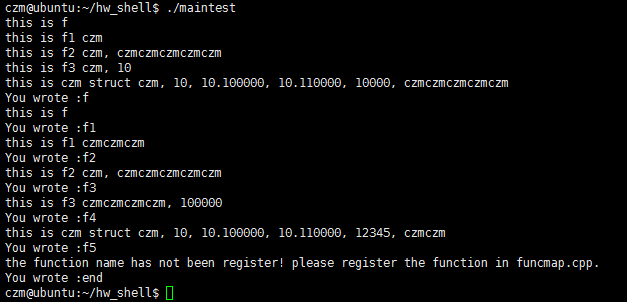
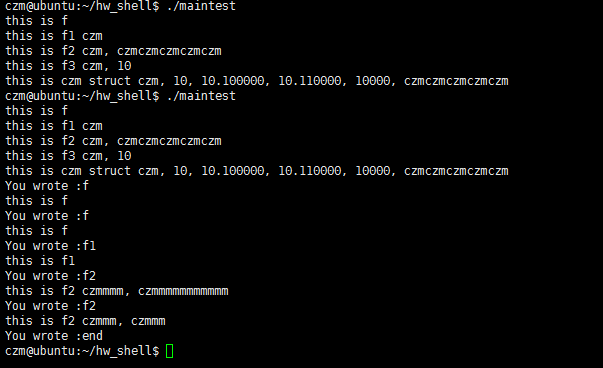
update function and readme

Changed region(s): [[0.0, 0.0, 0.9552, 1.0]]

diff --git a/code/msgreceive.cpp b/code/msgreceive.cpp
@@ -53,6 +53,10 @@ void* create_message_queue(void* arg) {
           ((void(*)())(phead->pfn))();
         }*/
         //改进在这里只需要每个测试函数对应添加一个宏即可
+        if (0 == strcmp("help", phead->pStrFuncName)) {
+          cmd_help(&ret_data);
+          break;
+        }
         DEFINE_FUNC_TYPE_NO("f", void(*)());
         DEFINE_FUNC_RETURN_TYPE_ONE("f1", int(*)(char*), int, "int", void(*)(int, char*), char*, "char*", char*(*)(char*));
         DEFINE_FUNC_TYPE_TWO("f2", void(*)(char*, char*), char*, "char*", char*(*)(char*), char*, "char*", char*(*)(char*));
@@ -68,7 +72,7 @@ void* create_message_queue(void* arg) {
       continue;
     }
 
-    strcat(ret_data.text , "     Function call succeeded");
+    strcat(ret_data.text , "  Function call succeeded");
     SEND_MESSAGE()
   }
 

diff --git a/code/funcmap.h b/code/funcmap.h
@@ -2,20 +2,21 @@
 #define __FUNCMAP_H__
 #include <stdio.h>
 #include "../testfunc.h"
+#include "msgreceive.h"
 
 struct FUNC_MAP {
-    const int msgType;
     const char* pStrFuncName;
     void* pfn;
 };
 
-
+struct msg_st;
+void cmd_help(msg_st* pmsg);
 
 #define BEGIN_ITEM_FUNC(name)             FUNC_MAP g_##name##Func[] = {
 
-#define ITEM_FUNC(msgtype, funcname, fun) {msgtype, funcname, fun},
+#define ITEM_FUNC(funcname, fun) {funcname, fun},
 
-#define END_ITEM_FUNC()                    {NULL, NULL, NULL}};
+#define END_ITEM_FUNC()                    {NULL, NULL}};
 
 #define DECLARE_ITEM_FUNC(name)           extern FUNC_MAP g_##name##Func[];
 

diff --git a/code/funcmap.cpp b/code/funcmap.cpp
@@ -1,9 +1,19 @@
 #include "funcmap.h"
+#include <string.h>
+void cmd_help(msg_st* pmsg) {
+    FUNC_MAP *phead = GET_FUNC_MAP(Main);
+    while (NULL != phead->pStrFuncName) {
+        strcat(pmsg->text, phead->pStrFuncName);
+        strcat(pmsg->text, "\n");
+        phead++;
+    }
+}
 
 BEGIN_ITEM_FUNC(Main)
-ITEM_FUNC(2, "f", (void*)f)
-ITEM_FUNC(2, "f1", (void*)f1)
-ITEM_FUNC(2, "f2", (void*)f2)
-ITEM_FUNC(2, "f3", (void*)f3)
-ITEM_FUNC(2, "f4", (void*)f4)
+ITEM_FUNC("f", (void*)f)
+ITEM_FUNC("f1", (void*)f1)
+ITEM_FUNC("f2", (void*)f2)
+ITEM_FUNC("f3", (void*)f3)
+ITEM_FUNC("f4", (void*)f4)
+ITEM_FUNC("help", (void*)cmd_help)
 END_ITEM_FUNC()

diff --git a/testfunc.cpp b/testfunc.cpp
@@ -3,6 +3,8 @@
 #include <stdlib.h>
 #include "testfunc.h"
 
+int g_num = 0;
+
 void f() {
     sleep(3);
     printf("this is f\n");
@@ -10,7 +12,8 @@ void f() {
 
 int f1(char *pstr) {
     printf("this is f1 %s\n", pstr);
-    return 1000;
+    g_num++;
+    return g_num;
 }
 
 void f2(char *pstr, char *pstr1) {

diff --git a/code/msgreceive.h b/code/msgreceive.h
@@ -41,4 +41,10 @@ if (msgsnd(msgid, (void*)&ret_data, BUFSIZ, 0) == -1) { \
       exit(EXIT_FAILURE); \
 }
 
+#define SEND_MESSAGE_USER(data, size)\
+if (msgsnd(msgid, (void*)&data, size, 0) == -1) { \
+      fprintf(stderr, "msgsnd failed\n"); \
+      exit(EXIT_FAILURE); \
+}
+
 #endif

diff --git a/msgsend.cpp b/msgsend.cpp
@@ -86,7 +86,6 @@ int main() {
 					fprintf(stderr, "msgrcv failed with errno: %d\n", errno);
 					exit(EXIT_FAILURE);
 				} else {
-					printf("%d\n", errno);
 					break;
 				}
 			}

diff --git a/README.md b/README.md
@@ -13,8 +13,9 @@
 
 ![图片](<images/1.png>)
 ![图片](<images/2.png>)
+![图片](<images/3.png>)
 
-msg_type向maintest发送msgtype=1的消息，maintest不能收到，因为它的msgtype=2。然后发送2 f，maintest顺利的执行了f, 接着分别执行了f1, f2, f3, f4（f4的参数类型是自定义的结构体）这4个不同类型的函数，maintest的结果显示都成功的运行了这些函数。（在maintest中加入sleep假设该进程一直在运行）。
+msgsend向maintest发送msgtype=1的消息，maintest不能收到，因为它的msgtype=2。然后发送2 f，maintest顺利的执行了f, 接着分别执行了f1, f2, f3, f4（f4的参数类型是自定义的结构体）这4个不同类型的函数，maintest的结果显示都成功的运行了这些函数。（在maintest中加入sleep假设该进程一直在运行）。
 
 
 ## 如何使用
@@ -68,14 +69,17 @@ DEFINE_TYPE_CONVERT_FUNC_SIX(CZM, strtoczm, char*, "char*", char*(*)(char*), pst
 ## 项目改进 
 1. 消息队列能够保证不同类型的消息一定能够到达指定的进程？ 
 能够保证，因为linux下面的消息队列内核会有锁操作，保证消息的正确到达。msgsend发送消息后，对于执行时间较长的业务函数可能不能及时收到回显消息。  
+https://github.com/basketballCzm/basketballczm.github.io/blob/master/Linux
 2. 消息的回显？ 
 对于回显消息的处理，这里我是又重新定义了一类消息，称为回显消息。客户端发送消息后每次会从消息队列中取出这类回显消息，直到这类回显消息被取空。 
 3. 消息队列下发命令1秒钟1000条？ 
 在test文件夹下有一个test1.cpp文件，该文件模拟了3个进程，两个进程每秒钟放2000个相同类型的请求消息，但是两个进程的消息类型不相同，发现消息队列中消息数量一直维持在一个较低的值，说明系统运行良好。但是也存在一个问题，当放消息的速度过快，取消息的速度太慢，即当客户端在写消息，服务端在写回显消息，但是此时消息队列已经满了，这时客户端和服务端都会出现死锁的现象。但是按照我的msgsend工具的逻辑因为取消息足够快所以不存在死锁。 
 4. 消息传输中文 
 测试了下传输中文和传输中文回来貌似没问题，不清楚具体测试场景。 
-5. 接收消息从进程改成了线程 
-
+5. 接收消息从进程改成了线程  
+线程中能够修改全局变量的值 
+6. 可以通过修改消息队列的容量来提高系统的性能，当前每个消息的大小是128，该消息队列一共可以有存储128个消息。
+https://blog.csdn.net/mao0514/article/details/60879239
 
 
 ## 本demo运行
@@ -85,12 +89,17 @@ DEFINE_TYPE_CONVERT_FUNC_SIX(CZM, strtoczm, char*, "char*", char*(*)(char*), pst
 * autoconf
 * automake --add-missing
 * ./configure
-* make
-
+* make 
 即可生成msgseng和maintest两个可执行文件。
+
+## ipc 基本命令 
+ipcs -q  查看消息队列 
+ipcrm -q ID 
+ipcrm -Q key 
 
 ## 注意事项
 1. 函数指针和空指针之间强制转换
 void* pfn = (void*)f;
 ((void(*)())pfn)();
 2. 既然是一个辅助测试工具，也要适当让用户输入一些信息，前面没有思路是想程序完完整整代替用户工作。
+
